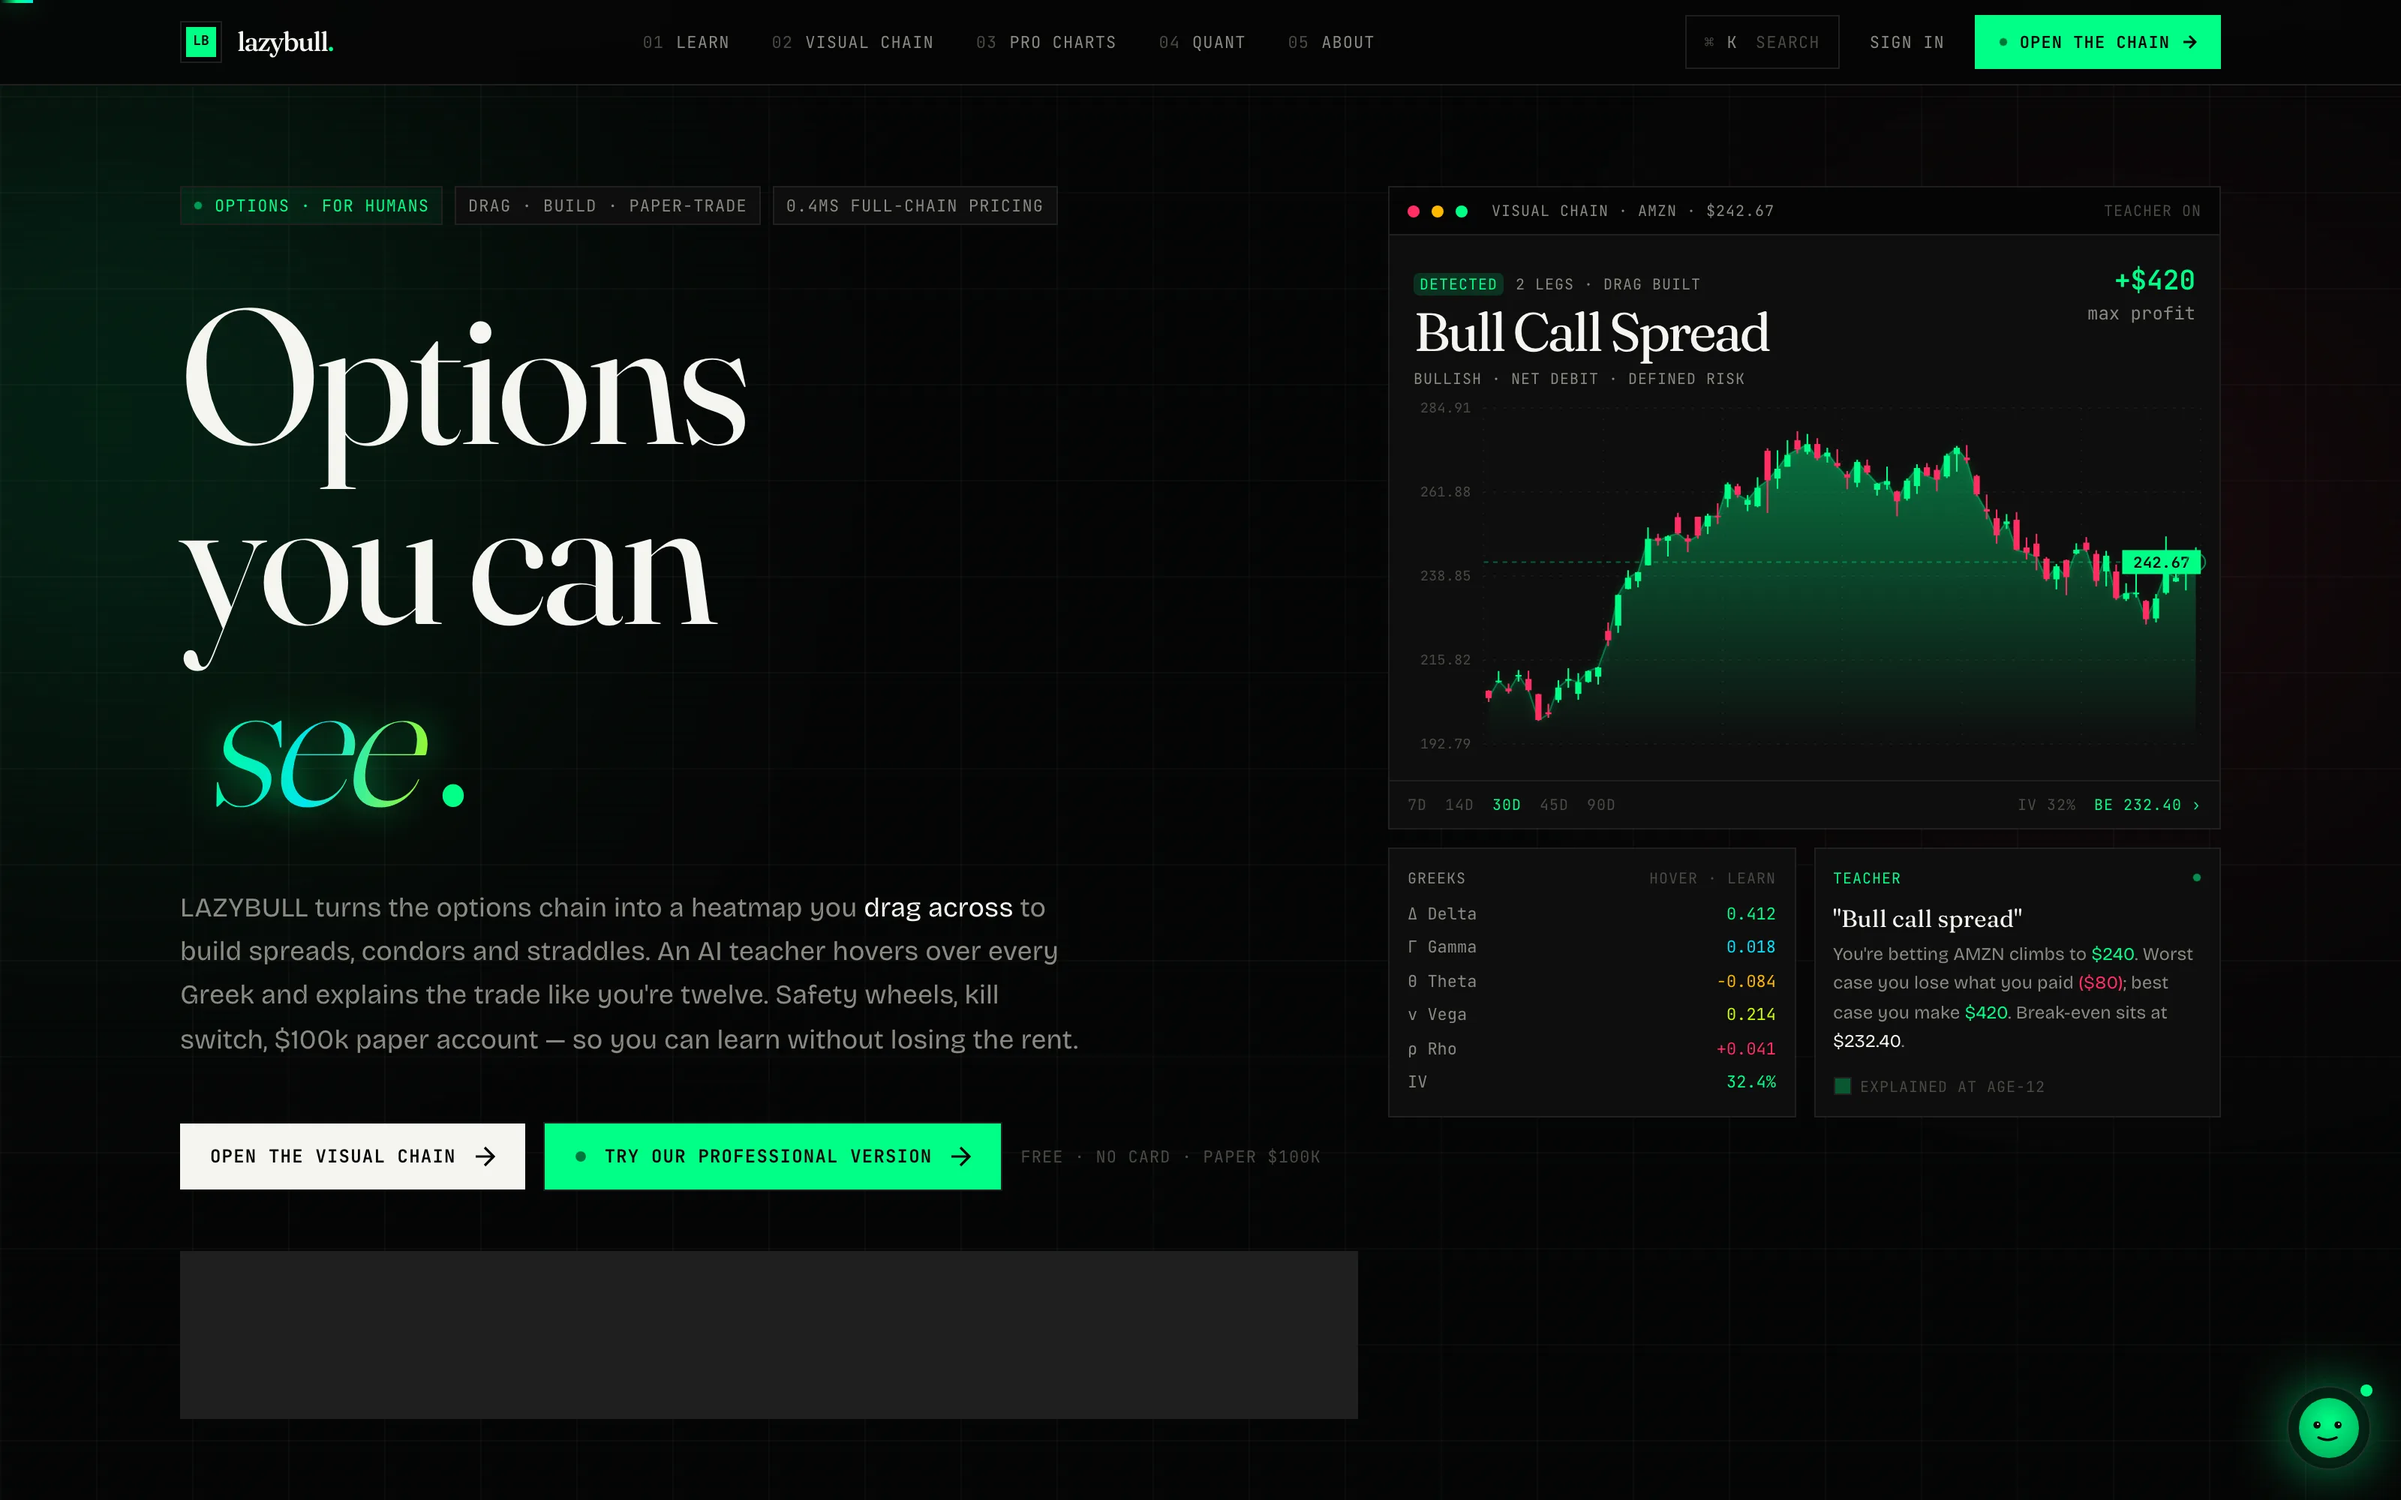
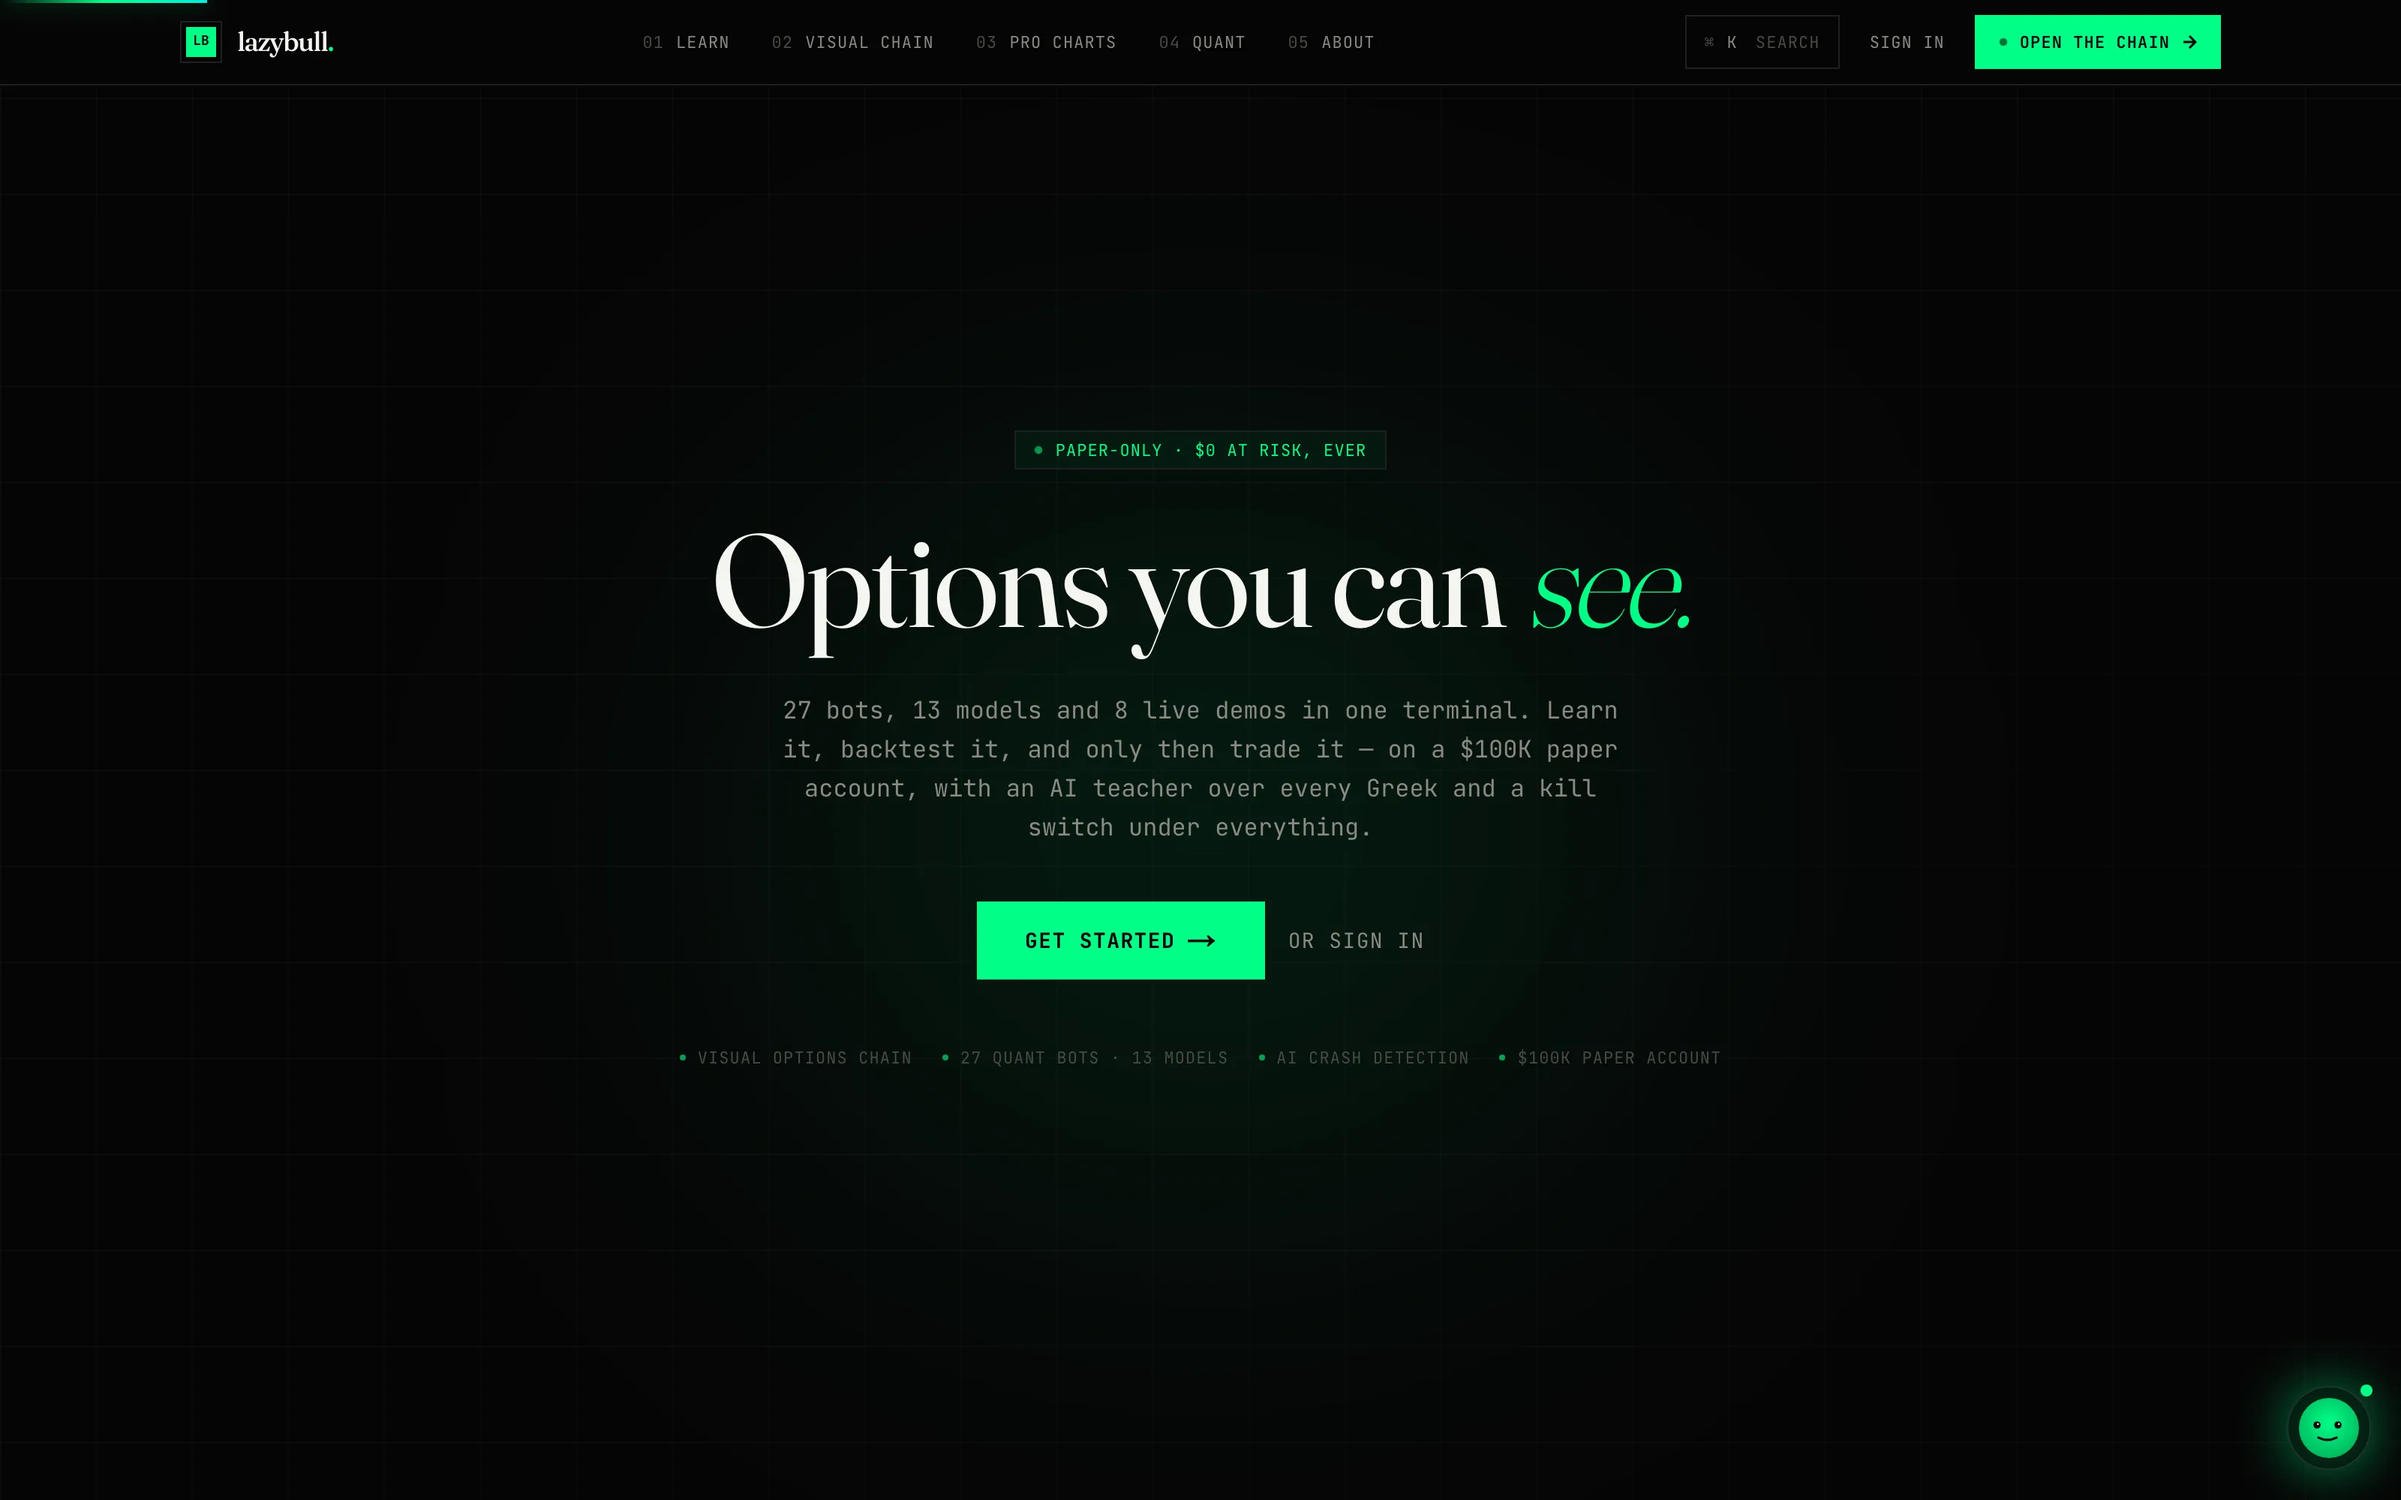
feat(home): replace marketing sections with the cinema + a single Get Started
The homepage is now the scroll-cinema: it tells the whole product story as one
animated sequence, then hands off to a single content-rich Get Started (also the
page's real crawlable text — headline, full pitch, feature strip, CTA). Signed-in
visitors skip the intro via CinemaGate (useSession). Removed Hero/UseCases/
TradeOverview/SocialProof/Partners from the page (components kept in the tree).
Reveal target re-captured as the Get Started section.

diff --git a/components/GetStarted.tsx b/components/GetStarted.tsx
@@ -1,0 +1,70 @@
+"use client";
+
+import Link from "next/link";
+import { MagneticCTA } from "./atmosphere/MagneticCTA";
+
+// The single landing the cinema hands off to (and the page's real, crawlable
+// content now that the marketing sections are replaced by the animation).
+const FEATURES = [
+  "Visual options chain",
+  "27 quant bots · 13 models",
+  "AI crash detection",
+  "$100K paper account",
+];
+
+export function GetStarted() {
+  return (
+    <section
+      data-getstarted
+      className="relative flex min-h-screen flex-col items-center justify-center overflow-hidden border-t border-border bg-bg px-6 text-center"
+    >
+      <div className="pointer-events-none absolute inset-0 bg-grid opacity-40" />
+      <div className="pointer-events-none absolute left-1/2 top-1/3 h-[440px] w-[560px] -translate-x-1/2 rounded-full bg-bull/10 blur-[150px]" />
+
+      <div className="relative flex flex-col items-center gap-8">
+        <span className="inline-flex items-center gap-2 border border-bull/40 bg-bull/5 px-3 py-1 font-mono text-[11px] uppercase tracking-wider text-bull">
+          <span className="size-1.5 rounded-full bg-bull pulse-dot" /> paper-only · $0 at risk, ever
+        </span>
+
+        <h2
+          className="font-display text-fg"
+          style={{ fontSize: "clamp(2.5rem, 7vw, 5.5rem)", lineHeight: 0.95, letterSpacing: "-0.02em" }}
+        >
+          Options you can <span className="italic font-light text-bull">see.</span>
+        </h2>
+
+        <p className="max-w-xl font-mono text-sm leading-relaxed text-fg-dim md:text-base">
+          27 bots, 13 models and 8 live demos in one terminal. Learn it, backtest it,
+          and only then trade it — on a $100K paper account, with an AI teacher over
+          every Greek and a kill switch under everything.
+        </p>
+
+        <div className="mt-1 flex flex-col items-center gap-4 sm:flex-row">
+          <MagneticCTA>
+            <Link
+              href="/trade"
+              className="inline-flex items-center gap-2 bg-bull px-8 py-4 font-mono text-sm font-bold uppercase tracking-wider text-bg transition-transform"
+            >
+              Get started <span aria-hidden>→</span>
+            </Link>
+          </MagneticCTA>
+          <Link
+            href="/auth/signin"
+            className="font-mono text-sm uppercase tracking-wider text-fg-dim underline-offset-4 hover:text-fg hover:underline"
+          >
+            or sign in
+          </Link>
+        </div>
+
+        <ul className="mt-3 flex flex-wrap items-center justify-center gap-x-5 gap-y-2 font-mono text-[11px] uppercase tracking-wider text-fg-faint">
+          {FEATURES.map((f) => (
+            <li key={f} className="flex items-center gap-2">
+              <span className="size-1 rounded-full bg-bull/60" />
+              {f}
+            </li>
+          ))}
+        </ul>
+      </div>
+    </section>
+  );
+}

diff --git a/app/page.tsx b/app/page.tsx
@@ -1,20 +1,18 @@
 import { Nav } from "@/components/Nav";
 import { TickerBar } from "@/components/TickerBar";
-import { Hero } from "@/components/Hero";
-import { TeacherAvatar } from "@/components/ai-teacher/Avatar";
-import { UseCases } from "@/components/UseCases";
-import { TradeOverview } from "@/components/TradeOverview";
-import { SocialProof } from "@/components/SocialProof";
-import { Partners } from "@/components/Partners";
+import { GetStarted } from "@/components/GetStarted";
+import { CinemaGate } from "@/components/scrollstory/CinemaGate";
 import { Footer } from "@/components/Footer";
-import { ScrollCinema } from "@/components/scrollstory/ScrollCinema";
-import { IntroSequence } from "@/components/atmosphere/IntroSequence";
-import { CursorSpotlight } from "@/components/atmosphere/CursorSpotlight";
+import { TeacherAvatar } from "@/components/ai-teacher/Avatar";
 import { AmbientOrbs } from "@/components/atmosphere/AmbientOrbs";
+import { CursorSpotlight } from "@/components/atmosphere/CursorSpotlight";
 import { ScrollProgress } from "@/components/atmosphere/ScrollProgress";
 import { ScrollReveal } from "@/components/atmosphere/ScrollReveal";
-import { SectionDivider } from "@/components/atmosphere/SectionDivider";
 
+// The homepage is now the scroll-cinema: it tells the whole product story as one
+// animated sequence, then hands off to a single Get Started. Signed-in visitors
+// skip the intro (see CinemaGate). The marketing sections it replaced live on in
+// git history if we ever want them back.
 export default function Home() {
   return (
     <main className="relative flex min-h-screen flex-col bg-bg text-fg">
@@ -22,35 +20,14 @@ export default function Home() {
       <AmbientOrbs />
       <CursorSpotlight />
       <ScrollProgress />
-      <IntroSequence />
 
       <div className="relative z-10 flex flex-col">
         <TickerBar />
         <Nav />
 
-        <ScrollCinema />
+        <CinemaGate />
 
-        <Hero />
-
-        <SectionDivider flag="§ 02 — who" meta="04 profiles" />
-        <ScrollReveal as="section">
-          <UseCases />
-        </ScrollReveal>
-
-        <SectionDivider flag="§ 03 — how" meta="04 drags" />
-        <ScrollReveal as="section">
-          <TradeOverview />
-        </ScrollReveal>
-
-        <SectionDivider flag="§ 04 — receipts" meta="learners.log" />
-        <ScrollReveal as="section">
-          <SocialProof />
-        </ScrollReveal>
-
-        <SectionDivider flag="§ 05 — stack" meta="partners.json" />
-        <ScrollReveal as="section">
-          <Partners />
-        </ScrollReveal>
+        <GetStarted />
 
         <ScrollReveal as="div" speed="slow">
           <Footer />

diff --git a/components/scrollstory/CinemaGate.tsx b/components/scrollstory/CinemaGate.tsx
@@ -1,0 +1,13 @@
+"use client";
+
+import { useSession } from "next-auth/react";
+import { ScrollCinema } from "./ScrollCinema";
+
+// Play-once for everyone, and skip entirely for signed-in users — returning
+// members go straight to the Get Started / product handoff, no intro. Renders
+// the cinema as a bare sibling so its section.nextElementSibling is Get Started.
+export function CinemaGate() {
+  const { status } = useSession();
+  if (status === "authenticated") return null;
+  return <ScrollCinema />;
+}
